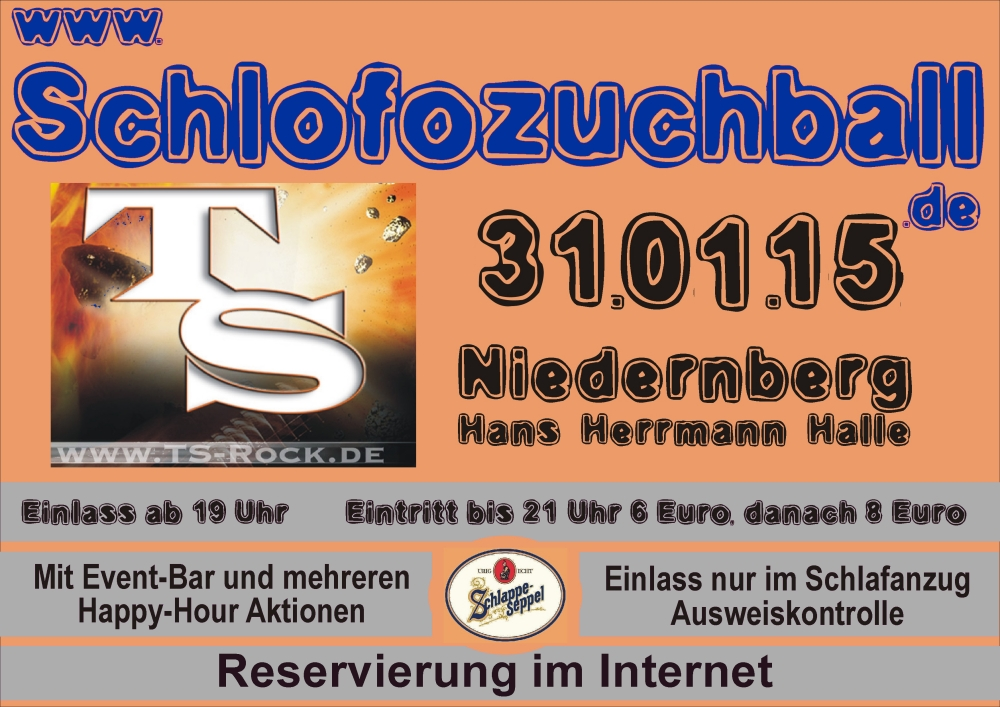
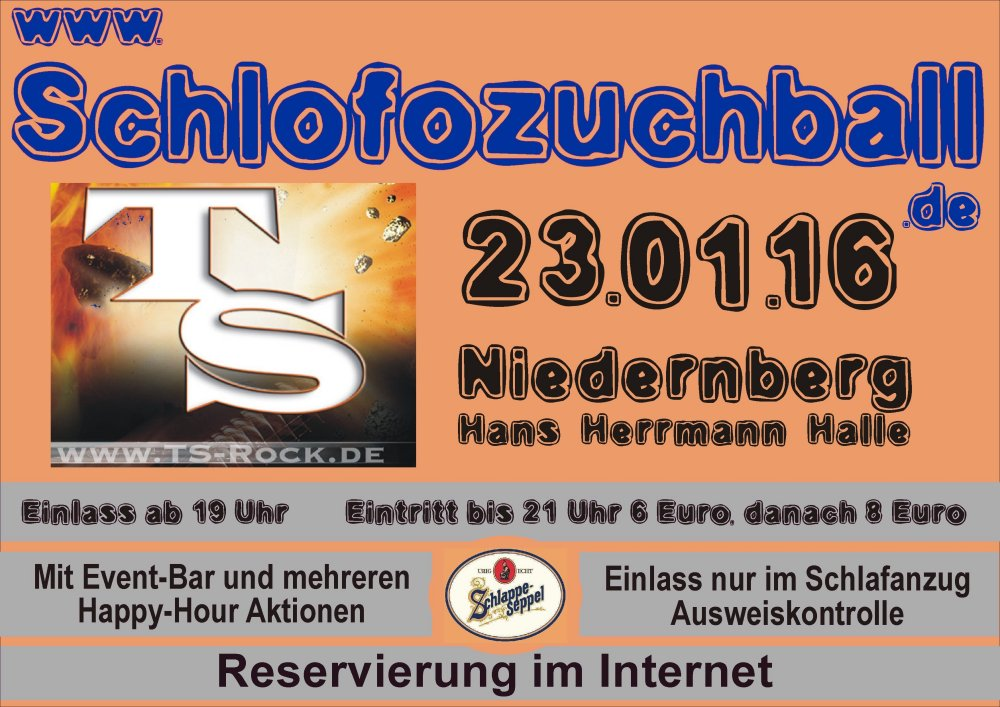
Schlofozuchball 2016

Changed region(s): [[0.465, 0.2801, 0.62, 0.4356], [0.806, 0.2489, 0.992, 0.4356]]

diff --git a/index.php b/index.php
@@ -3,9 +3,9 @@
 include "template/headerMenu.php";
 ?>
 
-<!--<img src="bilder/banner.png" width="100%" alt="Schlofozuchball 2013" /><br /><br />-->
+<!--<img src="bilder/banner.png" width="100%" alt="Schlofozuchball 2016" /><br /><br />-->
 
-<h1>Schlofozuchball 2015</h1>
+<h1>Schlofozuchball 2016</h1>
 <br />
 
 <span class="big"><b>Herzlich Willkommen</b> auf der offiziellen Webseite zum Niedernberger Schlofozuchball!</span>
@@ -30,12 +30,12 @@ Der Schlafanzug ist das Motto der Party und sorgt für eine coole Atmosphäre! W
 Das Mindestalter ist 16 Jahre!
 </span>
 
-</td><td class="separatorLeft"></td><td class="separatorRight"></td><td>
+</td><td class="separatorRight"></td><td>
 
 <span id="termin">
-<h2>Termin 2015</h2><br />
+<h2>Termin 2016</h2><br />
 <table border="0" cellspacing="0" cellpadding="5">
-<tr><td><b>Wann:</b></td><td>Samstag, der 31. Januar 2015, 20:00 Uhr<br /><i>(Einlass ab 19 Uhr)</i></td></tr>
+<tr><td><b>Wann:</b></td><td>Samstag, der 23. Januar 2016, 20:00 Uhr<br /><i>(Einlass ab 19 Uhr)</i></td></tr>
 <tr><td><b>Wo:</b></td><td>Hans Herrmann Halle, Niedernberg (siehe <a href="weg.php">Wegbeschreibung</a>)</td></tr>
 <tr><td><b>Einlass ab:</b></td><td>16 Jahren. Ausweiskontrolle!</td></tr>
 <tr><td><b>Motto:</b></td><td>Jeder kommt im Schlafanzug!</td></tr>
@@ -43,7 +43,7 @@ Das Mindestalter ist 16 Jahre!
 </span>
 
 <!--<span id="schlofozuchball-vorbei-hinweis">
-<span class="big"><b>Vielen Dank für einen gelungenen Schlofozuchball 2015!</b></span><br /><br />
+<span class="big"><b>Vielen Dank für einen gelungenen Schlofozuchball 2016!</b></span><br /><br />
 Wir hoffen, dass es Dir gefallen hat und dass Du nächstes jahr wieder kommst.<br /><br />
 <span class="big">Falls Du etwas verloren hast, kannst Du unsere <a href="fundgrube.php">Fundgrube</a> besuchen.</span>
 </span>-->
@@ -51,7 +51,7 @@ Wir hoffen, dass es Dir gefallen hat und dass Du nächstes jahr wieder kommst.<b
 <br /><br />
 
 </td></tr>
-<tr><td>
+<tr><td colspan="2">
 
 <h2>Das musst Du beachten</h2><br />
 Bitte beachte für einen reibungslosen Abend folgende Punkte:<br />
@@ -64,22 +64,11 @@ Bitte beachte für einen reibungslosen Abend folgende Punkte:<br />
 </ul>
 <br /><br />
 
-</td><td class="separatorLeft"></td><td class="separatorRight"></td><td>
-
-<h2>Karten reservieren</h2><br />
-<b>Reserviere jetzt</b> Karten für den Schlofozuchball 2015!<br /><br />
-Das bringt Dir folgende <b>Vorteile</b>:<br />
-<ul>
-<li>Du hast deutlich <b>weniger Stress</b> am Abend und kommst <b>schneller</b> in die Halle!</li>
-<li>Wir rechnen mir Dir - Du kommst <b>auf jeden Fall in die Halle</b>, egal wie viele Leute kommen.</li>
-</ul>
-<span class="big"><a href="reservierung.php">Direktlink zur Reservierung</a></span>
-<br /><br />
-
 </td></tr></table>
 
 <h2>Du möchtest Werbung für den Schlofozuchball machen?</h2><br />
-<span class="big"><a href="werbung.php">Hier geht's zum offiziellen Werbebanner für den Schlofozuchball 2015</a></span>
+<span class="big"><a href="werbung.php">Hier geht's zum offiziellen Werbebanner für den Schlofozuchball 2016</a></span>
+
 
 <?php
 // Footer

diff --git a/template/headerMenu.php b/template/headerMenu.php
@@ -2,7 +2,7 @@
 <html>
 
 	<head>
-		<title>Schlofozuchball 2015</title>
+		<title>Schlofozuchball 2016</title>
 		<link rel="stylesheet" type="text/css" href="css/default.css" />
 
 		<meta charset="utf-8" />
@@ -43,9 +43,8 @@
 				<table id="menu">
 					<tr><td><a href="index.php">Auf einen Blick</a></td></tr>
 					<tr><td><a href="infos.php">Infos</a></td></tr>
-                                        <tr><td><a href="reservierung.php">Karten-Reservierung</a></td></tr>
 					<tr><td><a href="weg.php">Wegbeschreibung</a></td></tr>
-                                        <tr><td><a href="werbung.php">Werbebanner</a></td></tr>
+          <tr><td><a href="werbung.php">Werbebanner</a></td></tr>
 					<tr><td><a href="fundgrube.php">Fundgrube</a></td></tr>
 					<tr><td><a href="impressum.php">Impressum</a></td></tr>
 				</table>

diff --git a/reservierung.php b/reservierung.php
@@ -6,7 +6,10 @@
 //--------------------------------------------------------------------
 ?>
 
+<h1>Kartenreservierung wird nicht mehr angeboten.</h1>
+
 <?php
+die();
 // Header und Menü
 include "template/headerMenu.php";
 ?>
@@ -14,7 +17,7 @@ include "template/headerMenu.php";
 <h1>Karten-Reservierung</h1>
 <br />
 
-Ab jetzt kannst Du hier <b>online Karten</b> für den Schlofozuchball 2015 <b>reservieren</b>!<br /><br />
+Ab jetzt kannst Du hier <b>online Karten</b> für den Schlofozuchball 2016 <b>reservieren</b>!<br /><br />
 Du hast dadurch folgende <b>Vorteile</b>:
 <ul>
     <li>Einlass bis 21 Uhr garantiert</li>

diff --git a/reservierung/formular.php b/reservierung/formular.php
@@ -96,7 +96,7 @@ else
     // Bestätigung anzeigen
 ?>
 
-<h2>Du hast erfolgreich Karten für den Schlofozuchball 2015 reserviert!</h2><br />
+<h2>Du hast erfolgreich Karten für den Schlofozuchball 2016 reserviert!</h2><br />
 Ein Fenster mit deiner Bestellbestätigung sollte sich automatisch öffnen. Falls nicht, klicke bitte <a href="http://www.schlofozuchball.de/reservierung/bestaetigung.php?personalausweisnummer=<?php echo $persoNr; ?>&name=<?php echo $name; ?>" class="link" target="blank">hier</a>.<br /><br />
 
 <a href="index.php" class="link">Zurück zur Seite 'Alles auf einen Blick'</a>

diff --git a/fundgrube.php b/fundgrube.php
@@ -8,7 +8,7 @@ include "template/headerMenu.php";
 
 <h2>Was ist die Fundgrube?</h2><br />
 Beim Schlofozuchball passiert es schnell, dass Du etwas verlierst.<br />
-Damit du deine Sachen möglichst schnell wiederbekommst, bieten wir 2015 wie bisher eine Fundgrube an.<br /><br />
+Damit du deine Sachen möglichst schnell wiederbekommst, bieten wir 2016 wie bisher eine Fundgrube an.<br /><br />
 Wenn Du <b>während der Veranstaltung</b> etwas verlierst, fragst Du bitte zuerst an der <b>Garderobe</b> nach, vielleicht es jemand bereits dort abgegeben...
 <br /><br />
 

diff --git a/werbung.php b/werbung.php
@@ -2,13 +2,13 @@
         include "template/headerMenu.php";
 ?>
 
-<h2>Der offizielle Werbebanner f&uuml;r den Schlofozuchball 2015</h2>
+<h2>Der offizielle Werbebanner f&uuml;r den Schlofozuchball 2016</h2>
 <br />
 
 <a href="bilder/banner_hq.jpg" target="blank">Den Werbebanner in hoher Aufl&ouml;sung herunterladen...</a><br />
 
 <br />
-<img src="bilder/banner.jpg" alt="Werbebanner Schlofozuchball 2015" style="margin-left: 20px;" />
+<img src="bilder/banner.jpg" alt="Werbebanner Schlofozuchball 2016" style="margin-left: 20px;" />
 
 
 <?php

diff --git a/weg.php b/weg.php
@@ -7,7 +7,7 @@ include "template/headerMenu.php";
 <br />
 
 <h2>Ort</h2><br />
-<span class="big">Der Schlofozuchball findet 2015 wie jedes Jahr in der <b>Hans Herrmann Halle Niedernberg</b> statt.</span><br /><br />
+<span class="big">Der Schlofozuchball findet 2016 wie jedes Jahr in der <b>Hans Herrmann Halle Niedernberg</b> statt.</span><br /><br />
 Adresse:<br />
 <span class="big" id="adresse"><b>Leerweg<br />
 63843 Niedernberg</b></span>

diff --git a/reservierung/bestaetigung.php b/reservierung/bestaetigung.php
@@ -14,7 +14,7 @@ if (isset($_GET["name"]) && trim($_GET["name"]) != "" && isset($_GET["personalau
 <p align="center"><img src="logo.gif" width="500">
 
 <h2 align="center">Reservierungbestätigung</h2>
-<h3 align="center">für den Schlofozuchball am 31.01.2015 für</h3>
+<h3 align="center">für den Schlofozuchball am 31.01.2016 für</h3>
 <h2 align="center"><?php echo $name; ?></h2>
 
 <p align="center">

diff --git a/template/footer.php b/template/footer.php
@@ -4,7 +4,7 @@
 
 		<!-- Footer -->
 			<tr><td colspan="2" id="footer">
-				&copy; Musikcorps Niedernberg 2011-2015 | <a href="impressum.php">Impressum</a>
+				&copy; Musikcorps Niedernberg 2011-2016 | <a href="impressum.php">Impressum</a>
 			</td></tr>
 		<!-- Ende Footer -->
 
